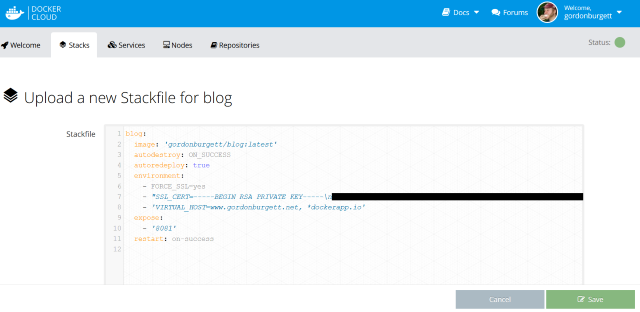
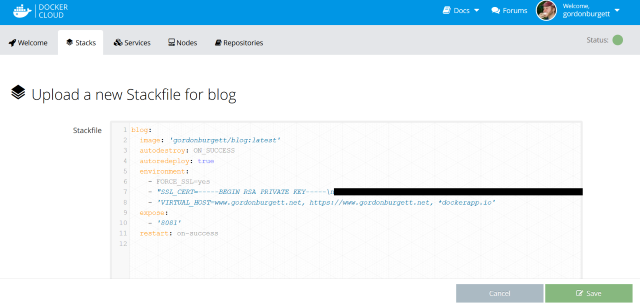
Added info about the need for https:// in virtual_host

diff --git a/content/post/docker-cloud-is-neat.md b/content/post/docker-cloud-is-neat.md
@@ -8,7 +8,7 @@ title = "docker cloud is neat"
 
 +++
 
-After our recent marriage conference in Durres, I had some time off today so I decided to revisit how I'm hosting all my stuff.  One of my issues with using Amazon's container service is that they make you assign resource values to each container, and those are not flexible.  So, I have to give each container high enough memory that it won't die, but then I run out of space on my server real quick.  Since most of the stuff I want to host just sits idle the majority of the time, this wasn't ideal for me.
+I had some time off today so I decided to revisit how I'm hosting all my stuff.  One of my issues with using Amazon's container service is that they make you assign resource values to each container, and those are not flexible.  So, I have to give each container high enough memory that it won't die, but then I run out of space on my server real quick.  Since most of the stuff I want to host just sits idle the majority of the time, this wasn't ideal for me.
 
 I'd heard about Tutum before, so I went to check it out.  It's another container management solution.  It's since been acquired by Docker and rebranded as [docker cloud](https://cloud.docker.com).  It's definitely got a slick interface, and looks to provide all the features I'll need.  One that I particularly like is the "autoredeploy" switch, which automatically redeploys a container when you push a new image.  Perfect for my blog.  So, I set about getting it set up.
 
@@ -31,6 +31,8 @@ Now to set up my services.  You can set them up directly using the web interface
 Now I need to set up my haproxy load balancer in front of it.  I decided this time I'll dockerize my load balancer instead of having it run straight on the EC2 instance.  I messed around with it for a long time before I found this image, which does everything I want: https://hub.docker.com/r/dockercloud/haproxy/
 
 Setting that up was a breeze.  I created a service to run it, and set it to listen on ports 80 and 443 (the HTTP and HTTPS ports).  It contacts the docker cloud API and discoveres the locations of all my other services automatically, and imports their info into its configuration.  I just needed to declare a couple environment variables in my other services, like hostname and SSL keys, and it imports them to route virtual hosts and terminate SSL connections automagically.  Sweet!
+
+Only a couple things tripped me up at this point.  One was the routing based on the `VIRTUAL_HOST` environment variable.  If you want it to route https traffic, you need an "https://" virtual host in there.  Another thing was that, while this haproxy service has a DNS hostname, I can't just make a CNAME to it from www.gordonburgett.net, since the DNS hostname changes whenever the container is reloaded.  So I stuck to my old way of assigning an Elastic IP to the node and using that in my DNS records.
 
 ## Running the Reclaimed site
 
